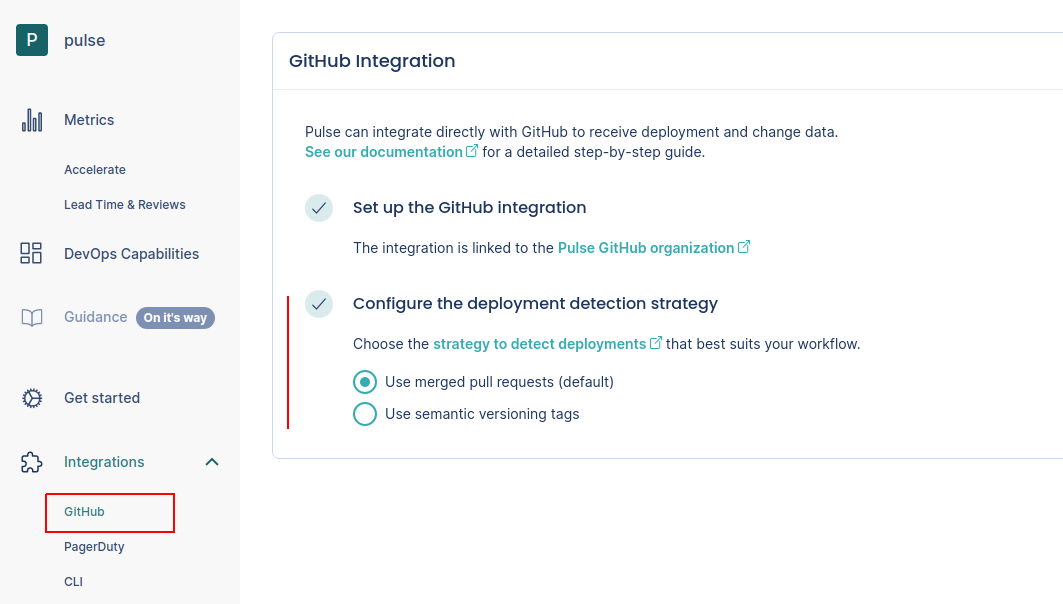
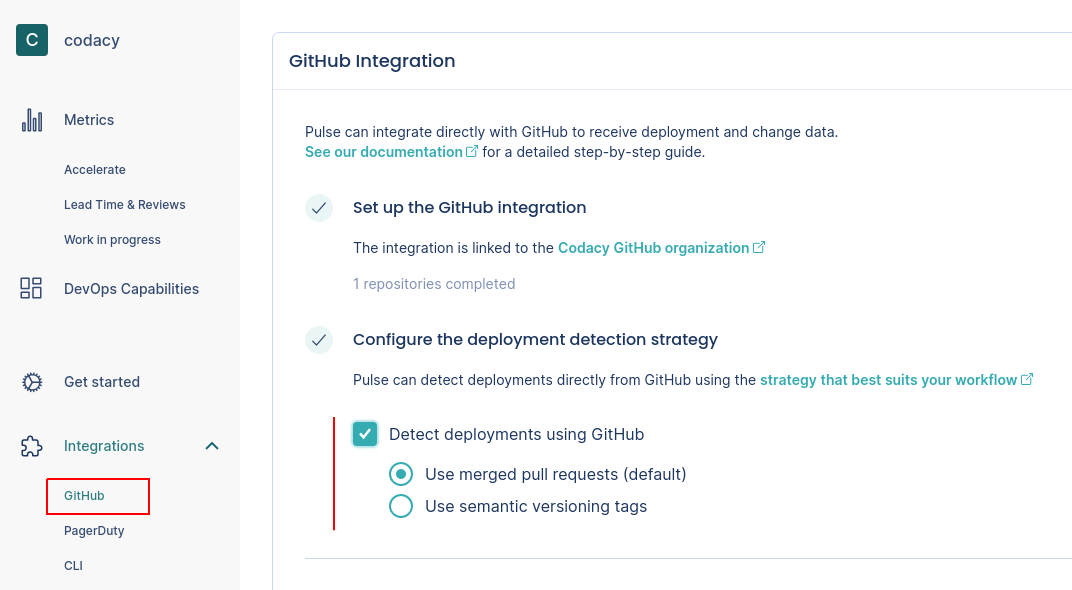
feature: Disable tracking deployments with GitHub events (#64)
* do not track github deployments

* feature: Update deployment detection strategy screenshot

* clean: Edit explanation for disabled automatic deployment detection

diff --git a/docs/one-click-integrations.md b/docs/one-click-integrations.md
@@ -37,7 +37,7 @@ To set up the GitHub integration:
 
 ### Configuring how Pulse detects deployments {: id="deployment-detection-strategy"}
 
-The Pulse GitHub integration supports two strategies to detect and measure deployments in your repositories:
+Optionally, the Pulse GitHub integration can use one of two strategies to automatically detect and measure deployments in your repositories:
 
 -   **Pull requests merged to default branch** (default strategy)
 
@@ -62,9 +62,11 @@ The Pulse GitHub integration supports two strategies to detect and measure deplo
         Keep in mind that since webhook calls can be delayed, the deployment date on Pulse could be imprecise and impact the metric **Lead time for changes**.
 
     -   The set of changes that belong to a deployment is the list of commits between the tag of that deployment and the previous tag. Because of this, Pulse discards:
-        
+
         -   The first SemVer tag in the repository since there is no previous tag to compare with.
         -   Any tag that does not have a common ancestor (commit) with its previous tag, since Pulse cannot obtain the changes between them.
+
+If the automatic deployment detection is turned off, Pulse doesn't detect deployments using GitHub events and you must report deployments using the Pulse CLI or the API. This is useful if none of the automatic deployment detection strategies match your workflow and you must have control over the way Pulse tracks your deployments.
 
 To configure the strategy that Pulse uses to detect deployments:
 
@@ -72,7 +74,7 @@ To configure the strategy that Pulse uses to detect deployments:
 
     Make sure that you have already installed the GitHub App.
 
-1.  Choose the strategy that fits best your workflows.
+1.  Choose the strategy that fits best your workflows, or turn off the automatic deployment detection.
 
     ![Choosing a deployment triggering strategy](images/ghi-strategy.png)
 
